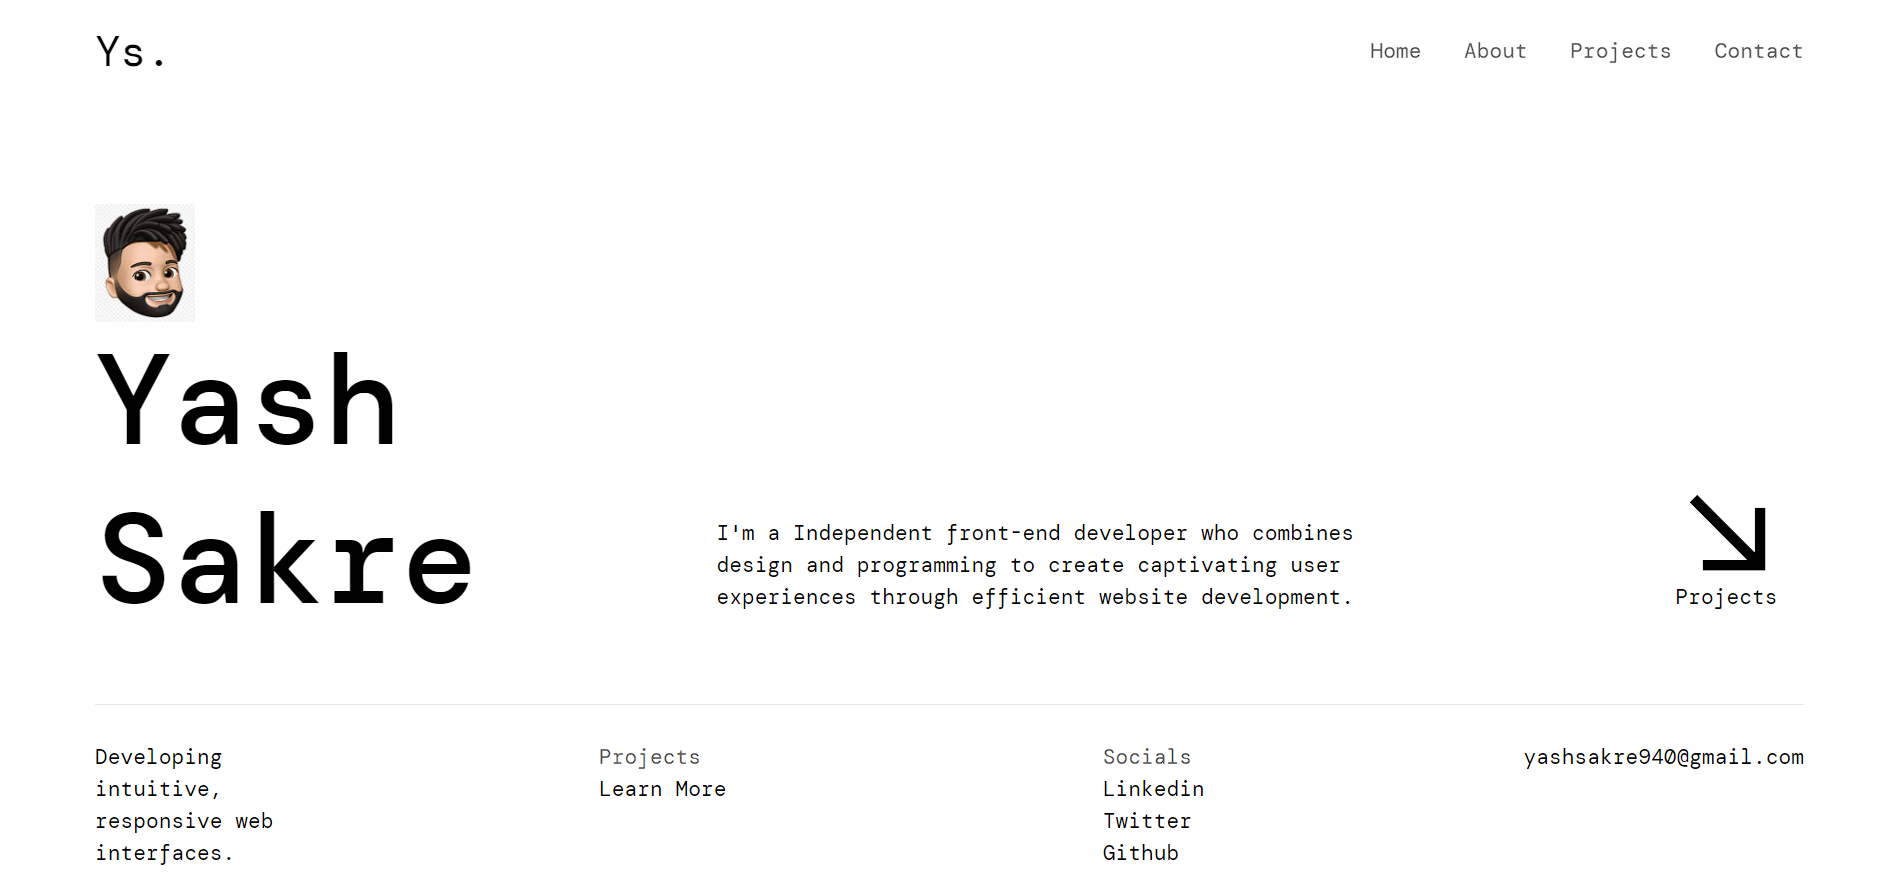
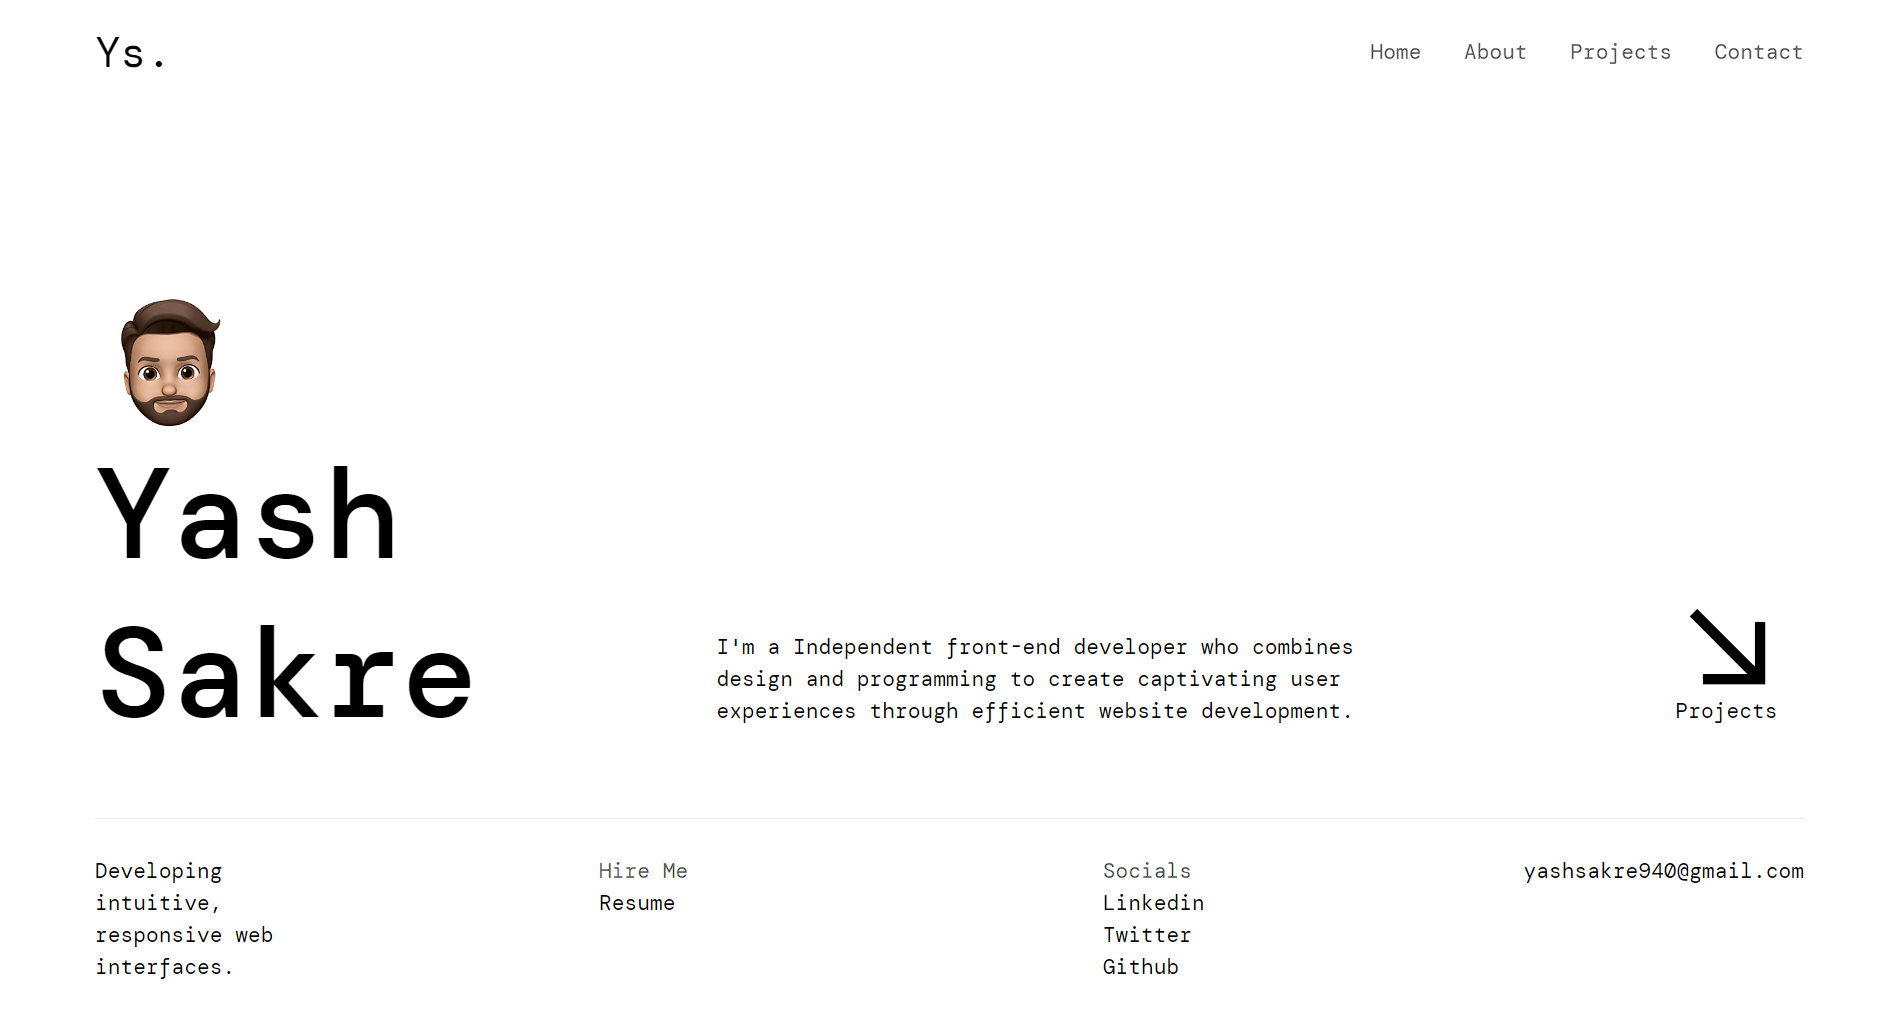
Complete all the pages

diff --git a/src/pages/about/About.jsx b/src/pages/about/About.jsx
@@ -9,7 +9,7 @@ import pythonImage from "../../assets/python.svg";
 import djangoImage from "../../assets/django.svg";
 import gitImage from "../../assets/git.svg";
 // Add more image imports as needed
-import download from "../../assets/download.jpeg";
+import about from "../../assets/about.png";
 
 const imageMap = {
   "../assests/html5.svg": htmlImage,
@@ -24,6 +24,9 @@ const imageMap = {
   // Map more image paths to imported images
 };
 const About = () => {
+  function resume() {
+    window.open("https://drive.google.com/file/d/1IGd5kz41pmZugLd_G14pGY0gn2SQv_hG/view?usp=sharing");
+  }
   return (
     <div  className="xl:min-h-screen flex flex-col " id="about">
       <div className="text-[3rem]">About Me.</div>
@@ -44,13 +47,13 @@ const About = () => {
           my problem-solving abilities and equipped me with the tools necessary
           to excel in a professional environment.
           <div>
-            <button className="my-3 py-3 px-9 text-sm font-medium text-center border-2 rounded-lg bg-primary-700 sm:w-fit hover:bg-primary-800 focus:ring-4 focus:outline-none focus:ring-primary-300 dark:bg-primary-600 dark:hover:bg-primary-700 dark:focus:ring-primary-800">
+            <button onClick={resume} className="my-3 py-3 px-9 text-sm font-medium text-center border-2 rounded-lg bg-primary-700 sm:w-fit hover:bg-primary-800 focus:ring-4 focus:outline-none focus:ring-primary-300 dark:bg-primary-600 dark:hover:bg-primary-700 dark:focus:ring-primary-800">
               Resume
             </button>
           </div>
         </div>
         <div className="">
-          <img className="mx-auto" src={download} alt="" />
+          <img className="mx-auto" src={about} alt="" width="70%"/>
         </div>
       </div>
 

diff --git a/src/pages/home/Home.jsx b/src/pages/home/Home.jsx
@@ -1,6 +1,6 @@
-
+import { Link } from "react-scroll";
 import arrow from "../../assets/arrow.png";
-import download from "../../assets/download.jpeg";
+import memoji from "../../assets/memoji.png";
 import HomeFooter from "./HomeFooter";
 import { motion } from "framer-motion"
 const Home = () => {
@@ -9,7 +9,7 @@ const Home = () => {
     <div className="flex flex-wrap" id="/">
       <div className="min-h-[60vh] md:flex items-end xl:gap-40 gap-25">
         <motion.div animate={{x:0}} initial={{x:-1000}} transition={{ type: "spring", stiffness: 50 }} className="text-[6rem] font-medium leading-tight">
-          <img src={download} alt="" width={80} />
+          <img src={memoji} alt="" width={120} />
           Yash <br />
           Sakre
         </motion.div>
@@ -21,10 +21,10 @@ const Home = () => {
         </motion.div>
 
         <motion.div animate={{y:0}} initial={{y:-1000}} transition={{ type: "spring", stiffness: 30 }} className="hidden md:block m-5 ">
-          <a href="#">
+          <Link to="projects" className="cursor-pointer">
             <img src={arrow} alt="" />
             <p>Projects</p>
-          </a>
+          </Link>
         </motion.div>
       </div>
 

diff --git a/src/pages/projects/Projects.jsx b/src/pages/projects/Projects.jsx
@@ -23,7 +23,7 @@ const Projects = () => {
             <div className="rounded-lg">
               <div className="relative flex h-60 justify-center overflow-hidden rounded-lg ">
                 <div className="w-full border-2">
-                  <img className="" src={imageMap[project.imagePath]} alt="" />
+                  <img className="rounded-lg" src={imageMap[project.imagePath]} alt="" />
                 </div>
               </div>
 
@@ -55,6 +55,7 @@ const Projects = () => {
                       >
                         Github
                       </a>
+                      {project.Live && (  // Add a conditional rendering statement for Live button
                       <a
                         href={project.Live}
                         target="__blank"
@@ -62,6 +63,7 @@ const Projects = () => {
                       >
                         Live
                       </a>
+                    )}
                     </p>
                   </div>
                 </div>

diff --git a/src/pages/home/HomeFooter.jsx b/src/pages/home/HomeFooter.jsx
@@ -14,7 +14,7 @@ const HomeFooter = () => {
 
             <div className="w-[100%] ">
               <div className=" text-linkColor">Hire Me</div>
-              <a href=" " >Resume</a>
+              <a href="https://drive.google.com/file/d/1IGd5kz41pmZugLd_G14pGY0gn2SQv_hG/view?usp=sharing" target="__blank" >Resume</a>
             </div>
           </div>
           <div className="second flex justify-between xl:gap-60 gap-[2rem] md:mt-0 mt-7">

diff --git a/src/Footer/Footer.jsx b/src/Footer/Footer.jsx
@@ -45,7 +45,7 @@ const Footer = () => {
         Developed by 
         <a
           className="text-neutral-800 dark:text-neutral-400"
-          href=""
+          href="/"
         >
           : Yash Sakre
         </a>
